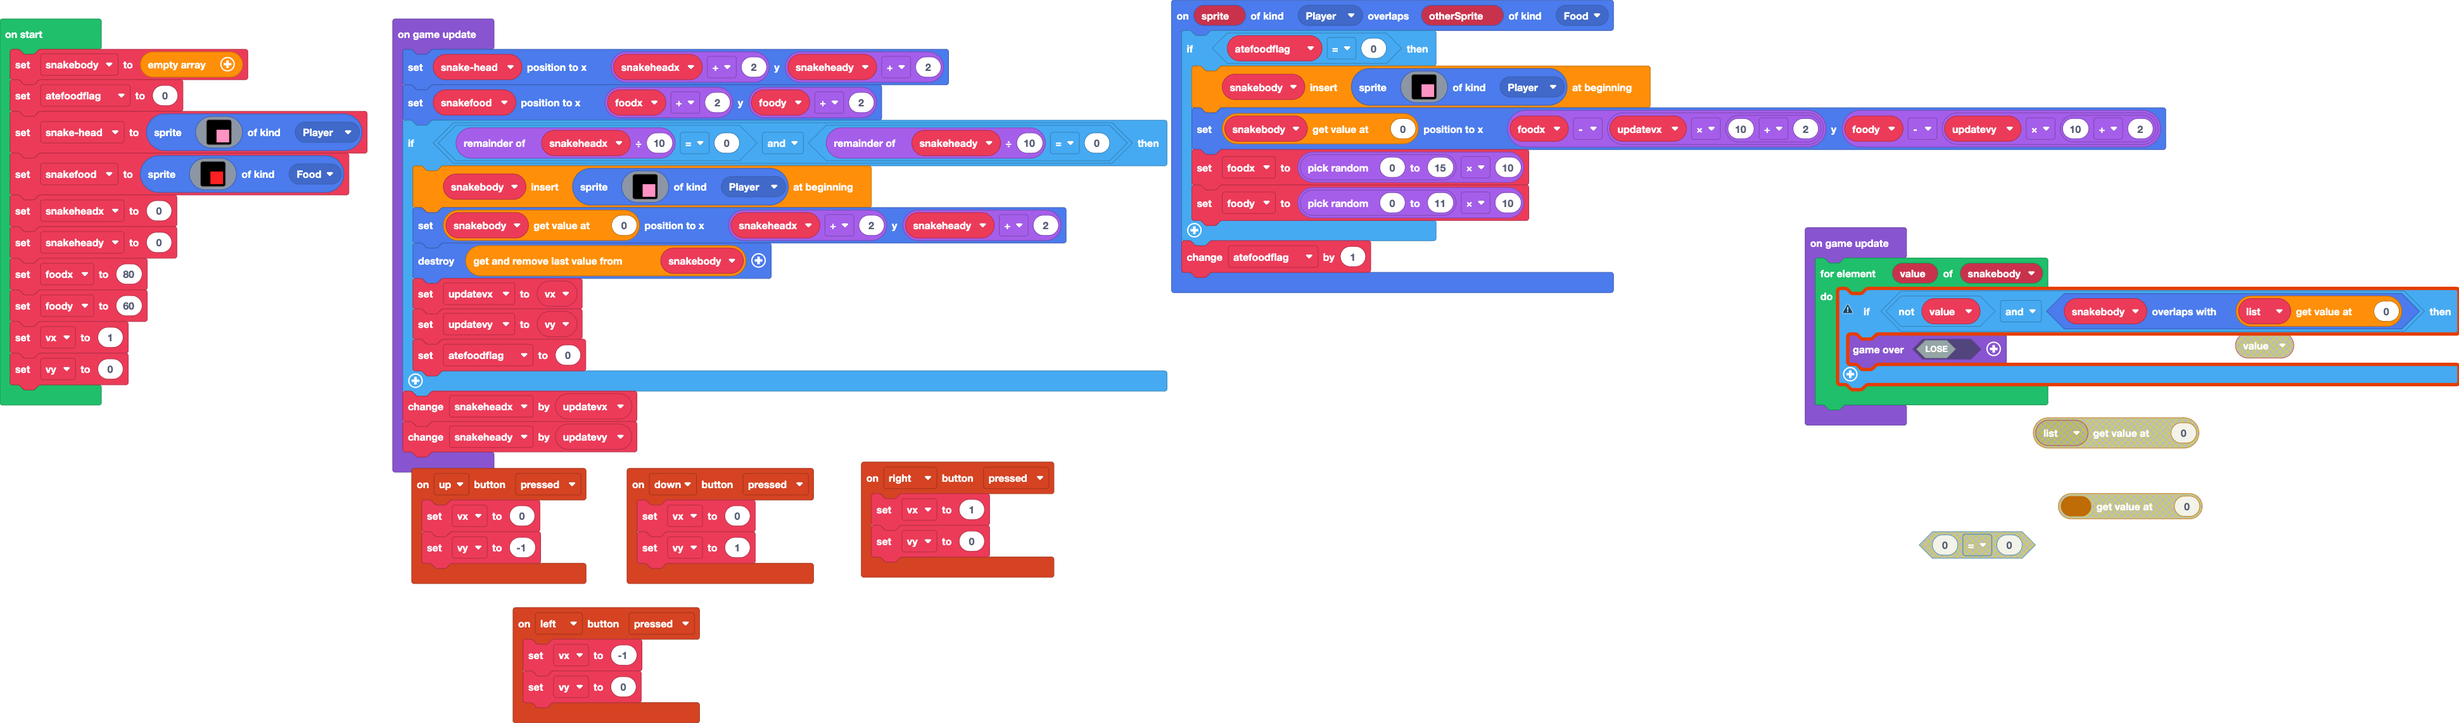
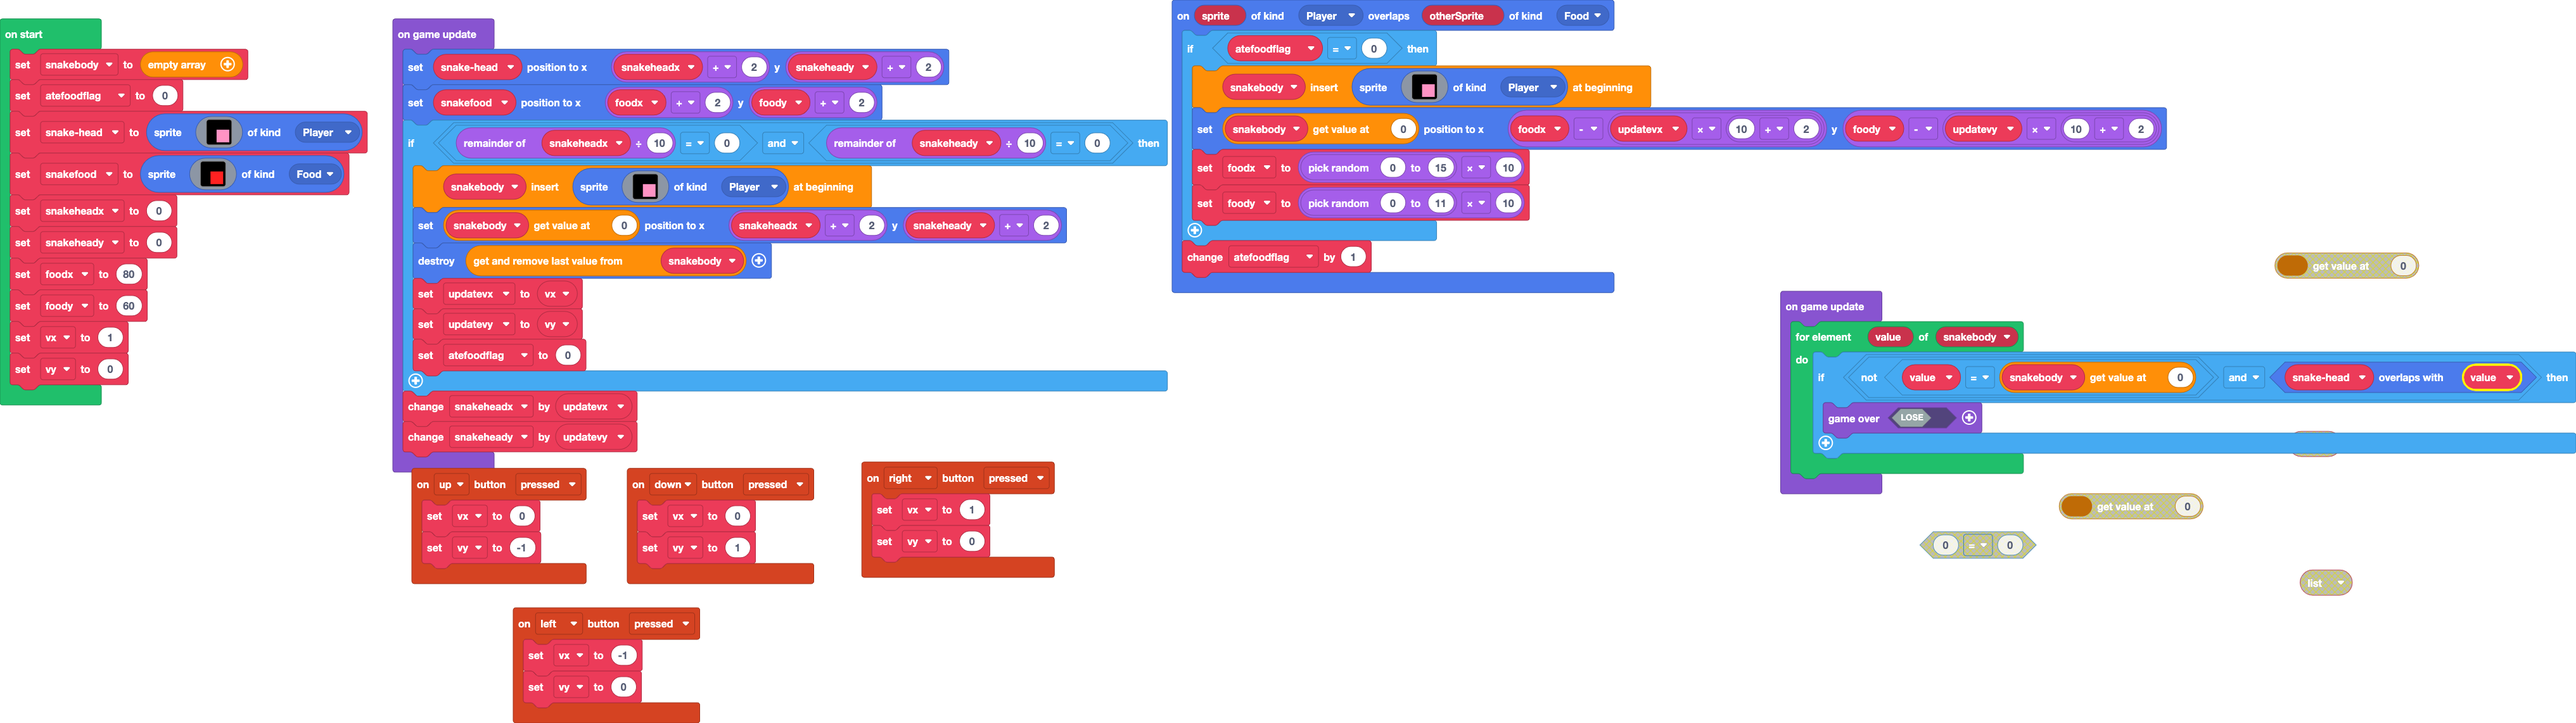
2nd food game over

diff --git a/main.ts b/main.ts
@@ -125,8 +125,7 @@ game.onUpdate(function () {
 })
 game.onUpdate(function () {
     for (let value of snakebody) {
-        let list: Sprite[] = []
-        if (!(value) && snakebody.overlapsWith(list[0])) {
+        if (!(value == snakebody[0]) && snakehead.overlapsWith(value)) {
             game.over(false)
         }
     }
